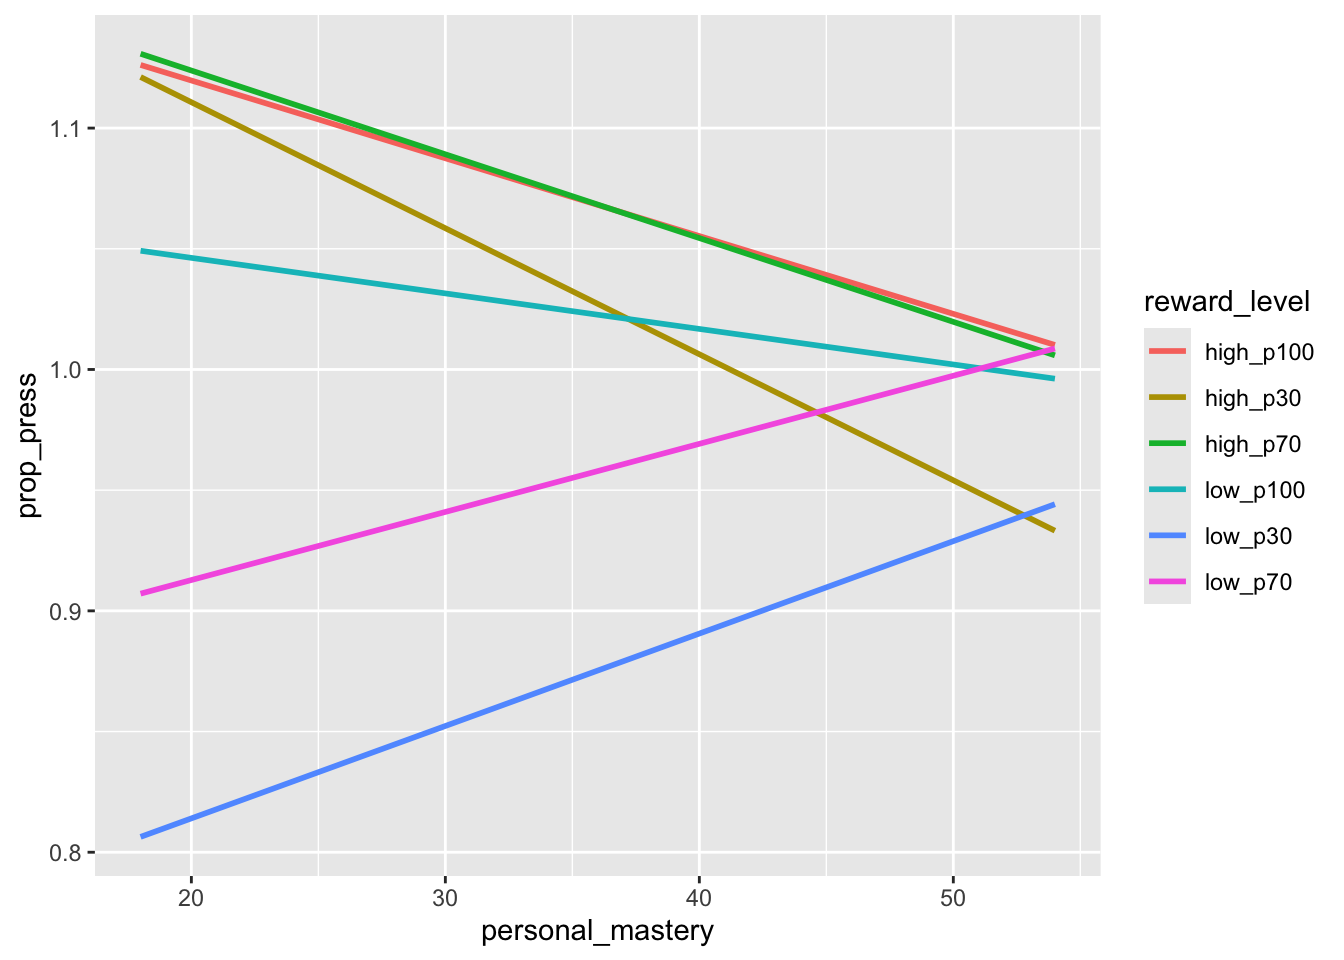
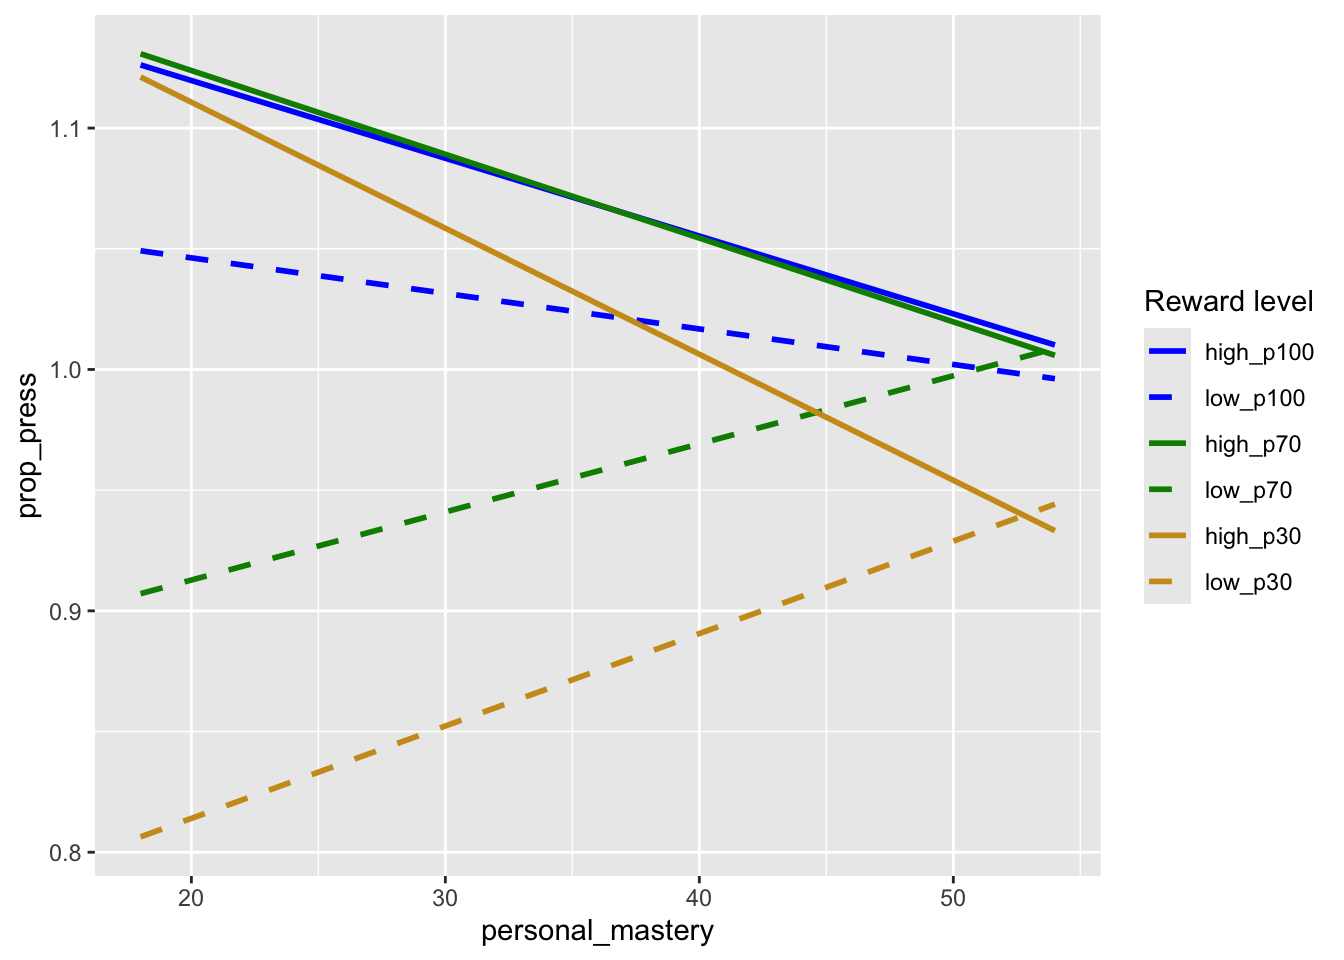
colors fixed

diff --git a/memhit.html b/memhit.html
@@ -317,8 +317,47 @@ chr (2): participant_id, prolific_pid
 <span id="cb14-11"><a href="#cb14-11" aria-hidden="true" tabindex="-1"></a><span class="co">#would be nice to stratify this by experimental group once we get more data</span></span>
 <span id="cb14-12"><a href="#cb14-12" aria-hidden="true" tabindex="-1"></a>plot_data <span class="sc">|&gt;</span></span>
 <span id="cb14-13"><a href="#cb14-13" aria-hidden="true" tabindex="-1"></a>  <span class="fu">filter</span>(<span class="sc">!</span><span class="fu">is.na</span>(reward_level)) <span class="sc">|&gt;</span></span>
-<span id="cb14-14"><a href="#cb14-14" aria-hidden="true" tabindex="-1"></a>  <span class="fu">ggplot</span>(<span class="fu">aes</span>(<span class="at">x =</span> personal_mastery, <span class="at">y =</span> prop_press, <span class="at">color =</span> reward_level)) <span class="sc">+</span></span>
-<span id="cb14-15"><a href="#cb14-15" aria-hidden="true" tabindex="-1"></a>  <span class="fu">geom_smooth</span>(<span class="at">method =</span> <span class="st">"lm"</span>, <span class="at">se =</span> <span class="cn">FALSE</span>)</span></code></pre></div><button title="Copy to Clipboard" class="code-copy-button"><i class="bi"></i></button></div>
+<span id="cb14-14"><a href="#cb14-14" aria-hidden="true" tabindex="-1"></a>  <span class="fu">mutate</span>(</span>
+<span id="cb14-15"><a href="#cb14-15" aria-hidden="true" tabindex="-1"></a>    <span class="at">reward_level =</span> <span class="fu">factor</span>(</span>
+<span id="cb14-16"><a href="#cb14-16" aria-hidden="true" tabindex="-1"></a>      reward_level,</span>
+<span id="cb14-17"><a href="#cb14-17" aria-hidden="true" tabindex="-1"></a>      <span class="at">levels =</span> <span class="fu">c</span>(</span>
+<span id="cb14-18"><a href="#cb14-18" aria-hidden="true" tabindex="-1"></a>        <span class="st">"high_p100"</span>, <span class="st">"low_p100"</span>,</span>
+<span id="cb14-19"><a href="#cb14-19" aria-hidden="true" tabindex="-1"></a>        <span class="st">"high_p70"</span>,  <span class="st">"low_p70"</span>,</span>
+<span id="cb14-20"><a href="#cb14-20" aria-hidden="true" tabindex="-1"></a>        <span class="st">"high_p30"</span>,  <span class="st">"low_p30"</span></span>
+<span id="cb14-21"><a href="#cb14-21" aria-hidden="true" tabindex="-1"></a>      )</span>
+<span id="cb14-22"><a href="#cb14-22" aria-hidden="true" tabindex="-1"></a>    )) <span class="sc">|&gt;</span></span>
+<span id="cb14-23"><a href="#cb14-23" aria-hidden="true" tabindex="-1"></a>  <span class="fu">ggplot</span>(</span>
+<span id="cb14-24"><a href="#cb14-24" aria-hidden="true" tabindex="-1"></a>    <span class="fu">aes</span>(</span>
+<span id="cb14-25"><a href="#cb14-25" aria-hidden="true" tabindex="-1"></a>      <span class="at">x =</span> personal_mastery,</span>
+<span id="cb14-26"><a href="#cb14-26" aria-hidden="true" tabindex="-1"></a>      <span class="at">y =</span> prop_press,</span>
+<span id="cb14-27"><a href="#cb14-27" aria-hidden="true" tabindex="-1"></a>      <span class="at">group =</span> reward_level,</span>
+<span id="cb14-28"><a href="#cb14-28" aria-hidden="true" tabindex="-1"></a>      <span class="at">color =</span> reward_level,</span>
+<span id="cb14-29"><a href="#cb14-29" aria-hidden="true" tabindex="-1"></a>      <span class="at">linetype =</span> reward_level</span>
+<span id="cb14-30"><a href="#cb14-30" aria-hidden="true" tabindex="-1"></a>    )</span>
+<span id="cb14-31"><a href="#cb14-31" aria-hidden="true" tabindex="-1"></a>  ) <span class="sc">+</span></span>
+<span id="cb14-32"><a href="#cb14-32" aria-hidden="true" tabindex="-1"></a>  <span class="fu">geom_smooth</span>(<span class="at">method =</span> <span class="st">"lm"</span>, <span class="at">se =</span> <span class="cn">FALSE</span>) <span class="sc">+</span></span>
+<span id="cb14-33"><a href="#cb14-33" aria-hidden="true" tabindex="-1"></a>  <span class="fu">scale_color_manual</span>(</span>
+<span id="cb14-34"><a href="#cb14-34" aria-hidden="true" tabindex="-1"></a>    <span class="at">name =</span> <span class="st">"Reward level"</span>,</span>
+<span id="cb14-35"><a href="#cb14-35" aria-hidden="true" tabindex="-1"></a>    <span class="at">values =</span> <span class="fu">c</span>(</span>
+<span id="cb14-36"><a href="#cb14-36" aria-hidden="true" tabindex="-1"></a>      <span class="at">high_p100 =</span> <span class="st">"blue"</span>,</span>
+<span id="cb14-37"><a href="#cb14-37" aria-hidden="true" tabindex="-1"></a>      <span class="at">low_p100 =</span> <span class="st">"blue"</span>,</span>
+<span id="cb14-38"><a href="#cb14-38" aria-hidden="true" tabindex="-1"></a>      <span class="at">high_p70 =</span> <span class="st">"green4"</span>,</span>
+<span id="cb14-39"><a href="#cb14-39" aria-hidden="true" tabindex="-1"></a>      <span class="at">low_p70 =</span> <span class="st">"green4"</span>,</span>
+<span id="cb14-40"><a href="#cb14-40" aria-hidden="true" tabindex="-1"></a>      <span class="at">high_p30 =</span> <span class="st">"goldenrod3"</span>,</span>
+<span id="cb14-41"><a href="#cb14-41" aria-hidden="true" tabindex="-1"></a>      <span class="at">low_p30 =</span> <span class="st">"goldenrod3"</span></span>
+<span id="cb14-42"><a href="#cb14-42" aria-hidden="true" tabindex="-1"></a>    )</span>
+<span id="cb14-43"><a href="#cb14-43" aria-hidden="true" tabindex="-1"></a>  ) <span class="sc">+</span></span>
+<span id="cb14-44"><a href="#cb14-44" aria-hidden="true" tabindex="-1"></a>  <span class="fu">scale_linetype_manual</span>(</span>
+<span id="cb14-45"><a href="#cb14-45" aria-hidden="true" tabindex="-1"></a>    <span class="at">name =</span> <span class="st">"Reward level"</span>,</span>
+<span id="cb14-46"><a href="#cb14-46" aria-hidden="true" tabindex="-1"></a>    <span class="at">values =</span> <span class="fu">c</span>(</span>
+<span id="cb14-47"><a href="#cb14-47" aria-hidden="true" tabindex="-1"></a>      <span class="at">high_p100 =</span> <span class="st">"solid"</span>,</span>
+<span id="cb14-48"><a href="#cb14-48" aria-hidden="true" tabindex="-1"></a>      <span class="at">low_p100 =</span> <span class="st">"dashed"</span>,</span>
+<span id="cb14-49"><a href="#cb14-49" aria-hidden="true" tabindex="-1"></a>      <span class="at">high_p70 =</span> <span class="st">"solid"</span>,</span>
+<span id="cb14-50"><a href="#cb14-50" aria-hidden="true" tabindex="-1"></a>      <span class="at">low_p70 =</span> <span class="st">"dashed"</span>,</span>
+<span id="cb14-51"><a href="#cb14-51" aria-hidden="true" tabindex="-1"></a>      <span class="at">high_p30 =</span> <span class="st">"solid"</span>,</span>
+<span id="cb14-52"><a href="#cb14-52" aria-hidden="true" tabindex="-1"></a>      <span class="at">low_p30 =</span> <span class="st">"dashed"</span></span>
+<span id="cb14-53"><a href="#cb14-53" aria-hidden="true" tabindex="-1"></a>    )</span>
+<span id="cb14-54"><a href="#cb14-54" aria-hidden="true" tabindex="-1"></a>  ) </span></code></pre></div><button title="Copy to Clipboard" class="code-copy-button"><i class="bi"></i></button></div>
 <div class="cell-output-display">
 <div>
 <figure class="figure">
@@ -329,7 +368,11 @@ chr (2): participant_id, prolific_pid
 <div class="code-copy-outer-scaffold"><div class="sourceCode cell-code" id="cb15"><pre class="sourceCode r code-with-copy"><code class="sourceCode r"><span id="cb15-1"><a href="#cb15-1" aria-hidden="true" tabindex="-1"></a>plot_data <span class="sc">|&gt;</span></span>
 <span id="cb15-2"><a href="#cb15-2" aria-hidden="true" tabindex="-1"></a>  <span class="fu">filter</span>(<span class="sc">!</span><span class="fu">is.na</span>(reward_level)) <span class="sc">|&gt;</span></span>
 <span id="cb15-3"><a href="#cb15-3" aria-hidden="true" tabindex="-1"></a>  <span class="fu">ggplot</span>(<span class="fu">aes</span>(<span class="at">x =</span> competitive_excellence, <span class="at">y =</span> prop_press, <span class="at">color =</span> reward_level)) <span class="sc">+</span></span>
-<span id="cb15-4"><a href="#cb15-4" aria-hidden="true" tabindex="-1"></a>  <span class="fu">geom_smooth</span>(<span class="at">method =</span> <span class="st">"lm"</span>, <span class="at">se =</span> <span class="cn">FALSE</span>)</span></code></pre></div><button title="Copy to Clipboard" class="code-copy-button"><i class="bi"></i></button></div>
+<span id="cb15-4"><a href="#cb15-4" aria-hidden="true" tabindex="-1"></a>  <span class="fu">geom_smooth</span>(<span class="at">method =</span> <span class="st">"lm"</span>, <span class="at">se =</span> <span class="cn">FALSE</span>) <span class="sc">+</span></span>
+<span id="cb15-5"><a href="#cb15-5" aria-hidden="true" tabindex="-1"></a>  <span class="fu">scale_color_discrete</span>(</span>
+<span id="cb15-6"><a href="#cb15-6" aria-hidden="true" tabindex="-1"></a>    <span class="at">breaks =</span> <span class="fu">c</span>(<span class="st">"high_p100"</span>, <span class="st">"low_p100"</span>, <span class="st">"high_p70"</span>, </span>
+<span id="cb15-7"><a href="#cb15-7" aria-hidden="true" tabindex="-1"></a>               <span class="st">"low_p70"</span>, <span class="st">"high_p30"</span>, <span class="st">"low_p30"</span>)</span>
+<span id="cb15-8"><a href="#cb15-8" aria-hidden="true" tabindex="-1"></a>  )</span></code></pre></div><button title="Copy to Clipboard" class="code-copy-button"><i class="bi"></i></button></div>
 <div class="cell-output-display">
 <div>
 <figure class="figure">
@@ -340,7 +383,11 @@ chr (2): participant_id, prolific_pid
 <div class="code-copy-outer-scaffold"><div class="sourceCode cell-code" id="cb16"><pre class="sourceCode r code-with-copy"><code class="sourceCode r"><span id="cb16-1"><a href="#cb16-1" aria-hidden="true" tabindex="-1"></a>plot_data <span class="sc">|&gt;</span></span>
 <span id="cb16-2"><a href="#cb16-2" aria-hidden="true" tabindex="-1"></a>  <span class="fu">filter</span>(<span class="sc">!</span><span class="fu">is.na</span>(reward_level)) <span class="sc">|&gt;</span></span>
 <span id="cb16-3"><a href="#cb16-3" aria-hidden="true" tabindex="-1"></a>  <span class="fu">ggplot</span>(<span class="fu">aes</span>(<span class="at">x =</span> achievement_anxiety, <span class="at">y =</span> prop_press, <span class="at">color =</span> reward_level)) <span class="sc">+</span></span>
-<span id="cb16-4"><a href="#cb16-4" aria-hidden="true" tabindex="-1"></a>  <span class="fu">geom_smooth</span>(<span class="at">method =</span> <span class="st">"lm"</span>, <span class="at">se =</span> <span class="cn">FALSE</span>)</span></code></pre></div><button title="Copy to Clipboard" class="code-copy-button"><i class="bi"></i></button></div>
+<span id="cb16-4"><a href="#cb16-4" aria-hidden="true" tabindex="-1"></a>  <span class="fu">geom_smooth</span>(<span class="at">method =</span> <span class="st">"lm"</span>, <span class="at">se =</span> <span class="cn">FALSE</span>) <span class="sc">+</span></span>
+<span id="cb16-5"><a href="#cb16-5" aria-hidden="true" tabindex="-1"></a>  <span class="fu">scale_color_discrete</span>(</span>
+<span id="cb16-6"><a href="#cb16-6" aria-hidden="true" tabindex="-1"></a>    <span class="at">breaks =</span> <span class="fu">c</span>(<span class="st">"high_p100"</span>, <span class="st">"low_p100"</span>, <span class="st">"high_p70"</span>, </span>
+<span id="cb16-7"><a href="#cb16-7" aria-hidden="true" tabindex="-1"></a>               <span class="st">"low_p70"</span>, <span class="st">"high_p30"</span>, <span class="st">"low_p30"</span>)</span>
+<span id="cb16-8"><a href="#cb16-8" aria-hidden="true" tabindex="-1"></a>  )</span></code></pre></div><button title="Copy to Clipboard" class="code-copy-button"><i class="bi"></i></button></div>
 <div class="cell-output-display">
 <div>
 <figure class="figure">
@@ -351,7 +398,11 @@ chr (2): participant_id, prolific_pid
 <div class="code-copy-outer-scaffold"><div class="sourceCode cell-code" id="cb17"><pre class="sourceCode r code-with-copy"><code class="sourceCode r"><span id="cb17-1"><a href="#cb17-1" aria-hidden="true" tabindex="-1"></a>plot_data <span class="sc">|&gt;</span></span>
 <span id="cb17-2"><a href="#cb17-2" aria-hidden="true" tabindex="-1"></a>  <span class="fu">filter</span>(<span class="sc">!</span><span class="fu">is.na</span>(reward_level)) <span class="sc">|&gt;</span></span>
 <span id="cb17-3"><a href="#cb17-3" aria-hidden="true" tabindex="-1"></a>  <span class="fu">ggplot</span>(<span class="fu">aes</span>(<span class="at">x =</span> mtq_total, <span class="at">y =</span> prop_press, <span class="at">color =</span> reward_level)) <span class="sc">+</span></span>
-<span id="cb17-4"><a href="#cb17-4" aria-hidden="true" tabindex="-1"></a>  <span class="fu">geom_smooth</span>(<span class="at">method =</span> <span class="st">"lm"</span>, <span class="at">se =</span> <span class="cn">FALSE</span>)</span></code></pre></div><button title="Copy to Clipboard" class="code-copy-button"><i class="bi"></i></button></div>
+<span id="cb17-4"><a href="#cb17-4" aria-hidden="true" tabindex="-1"></a>  <span class="fu">geom_smooth</span>(<span class="at">method =</span> <span class="st">"lm"</span>, <span class="at">se =</span> <span class="cn">FALSE</span>) <span class="sc">+</span></span>
+<span id="cb17-5"><a href="#cb17-5" aria-hidden="true" tabindex="-1"></a>  <span class="fu">scale_color_discrete</span>(</span>
+<span id="cb17-6"><a href="#cb17-6" aria-hidden="true" tabindex="-1"></a>    <span class="at">breaks =</span> <span class="fu">c</span>(<span class="st">"high_p100"</span>, <span class="st">"low_p100"</span>, <span class="st">"high_p70"</span>, </span>
+<span id="cb17-7"><a href="#cb17-7" aria-hidden="true" tabindex="-1"></a>               <span class="st">"low_p70"</span>, <span class="st">"high_p30"</span>, <span class="st">"low_p30"</span>)</span>
+<span id="cb17-8"><a href="#cb17-8" aria-hidden="true" tabindex="-1"></a>  )</span></code></pre></div><button title="Copy to Clipboard" class="code-copy-button"><i class="bi"></i></button></div>
 <div class="cell-output-display">
 <div>
 <figure class="figure">
